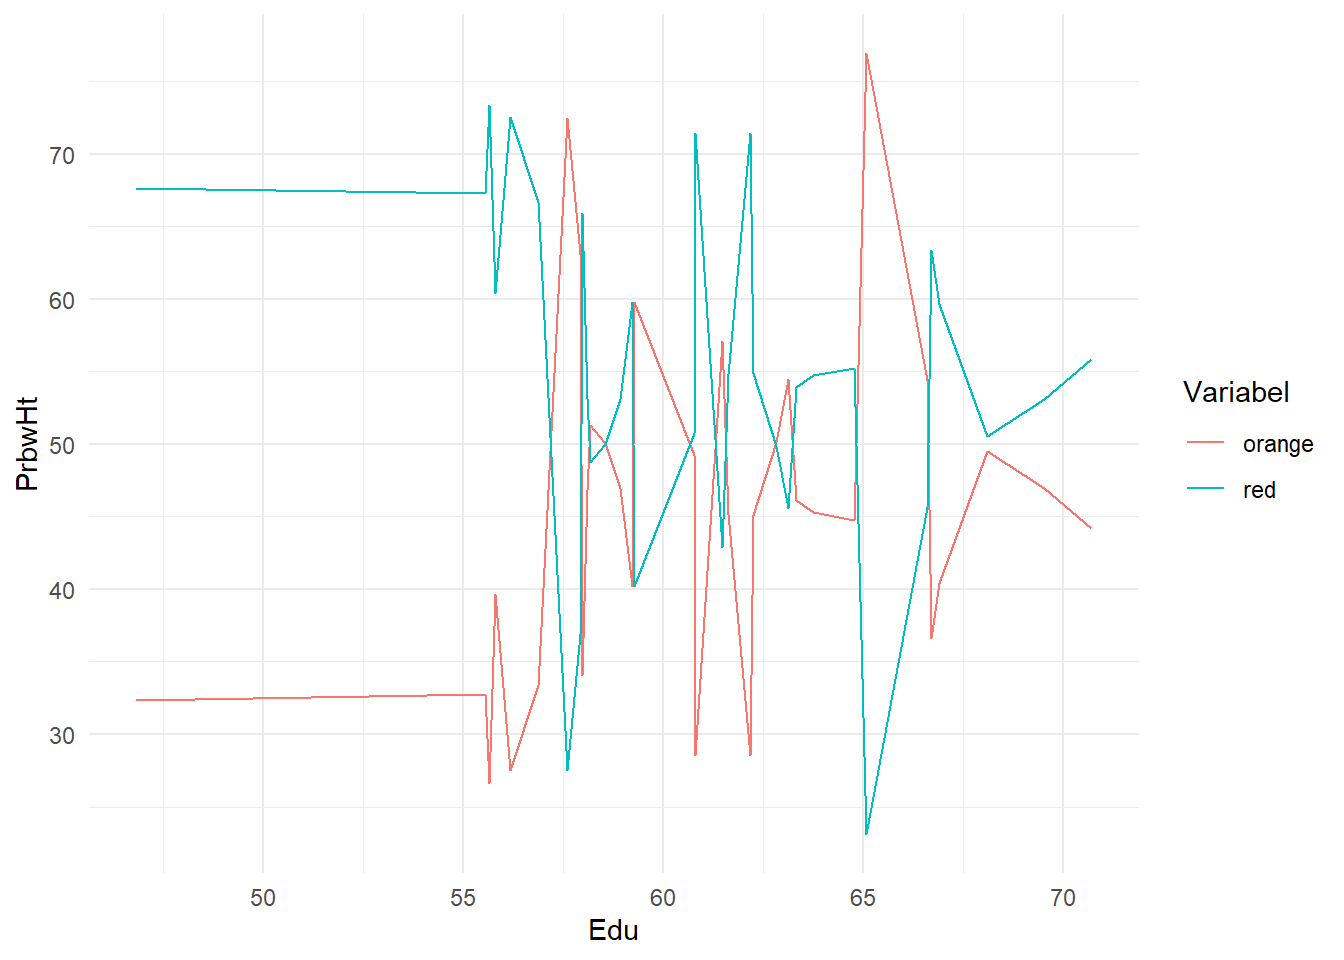
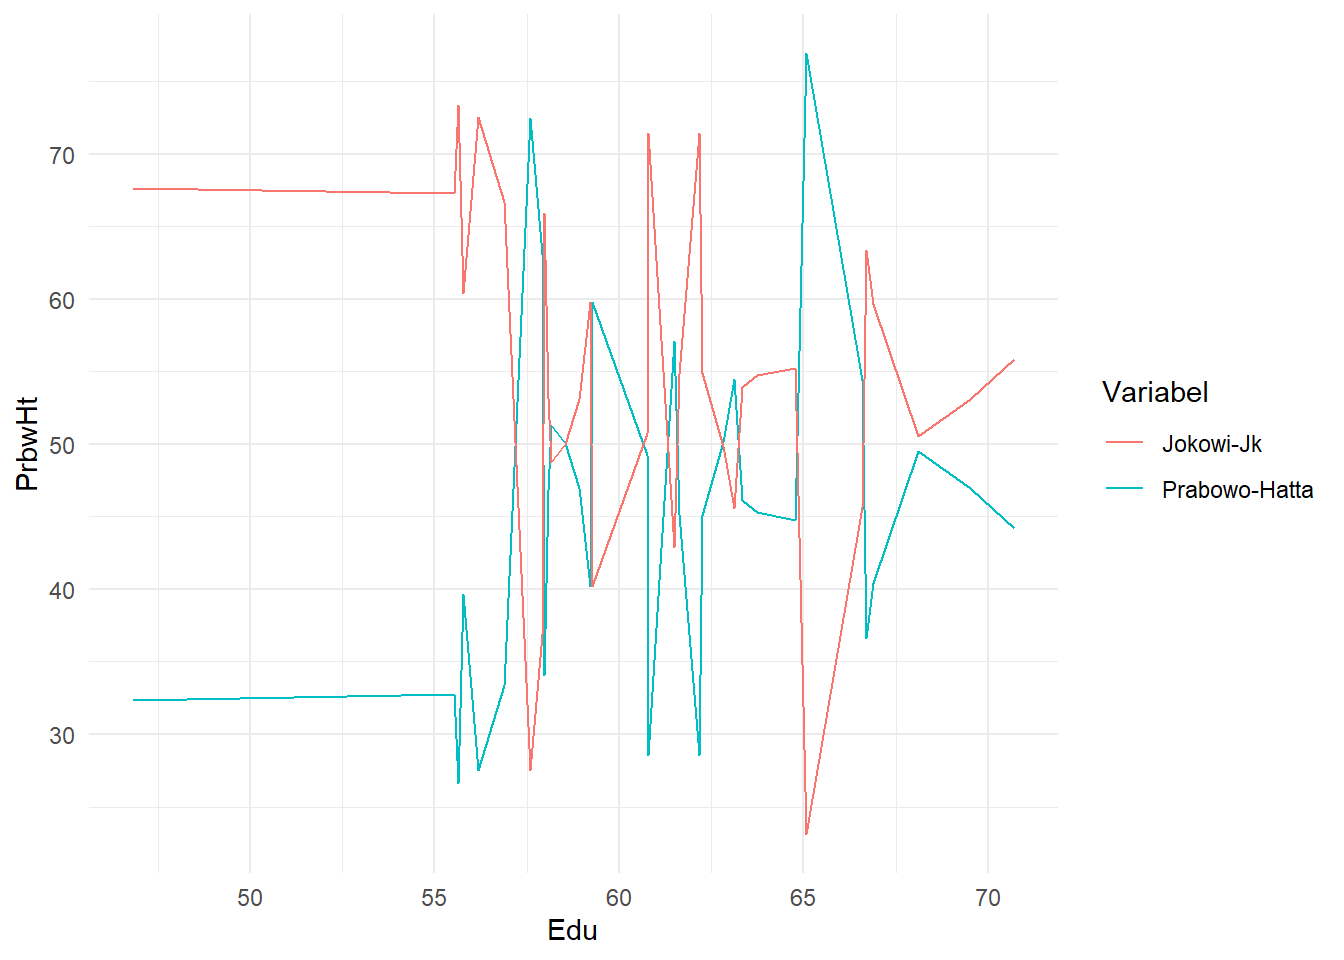
Add files via upload

diff --git a/index.html b/index.html
@@ -202,7 +202,8 @@ window.Quarto = {
 <section id="studi-pustaka" class="level2" data-number="2">
 <h2 data-number="2" class="anchored" data-anchor-id="studi-pustaka"><span class="header-section-number">2</span> Studi pustaka</h2>
 <p><strong>1. Pemilihan Presiden dan Demokrasi di Indonesia</strong></p>
-<p>Pemilihan Presiden dan Wakil Presiden merupakan perwujudan demokrasi dalam sistem presidensiil. Pemilihan presiden merupakan bagian integral dari sistem demokrasi di Indonesia. Sejak reformasi pada tahun 1998, Indonesia telah mengadakan beberapa pemilihan presiden yang dianggap bebas dan adil. Pemilihan presiden memberikan kesempatan kepada warga negara untuk memilih pemimpin mereka dan berpartisipasi dalam proses demokrasi (sumono, 2014). Berdasarkan Pasal 22 E Undang-Undang Dasar Negara Republik Indonesia 1945 diperkenalkan Pemilu Legislatif, Pemilu Presiden dan Wakil Presiden, sedang Pasal 18 (4) Undang-Undang Dasar Negara Republik Indonesia 1945 mengatur Pemilu Kepala Daerah dan Wakil Kepala Daerah secara bertingkat dari Gubernur hingga Bupati/Walikota.</p>
+<p>Pemilihan Presiden dan Wakil Presiden merupakan perwujudan demokrasi dalam sistem presidensiil. Pemilihan presiden merupakan bagian integral dari sistem demokrasi di Indonesia. Sejak reformasi pada tahun 1998, Indonesia telah mengadakan beberapa pemilihan presiden yang dianggap bebas dan adil. Pemilihan presiden memberikan kesempatan kepada warga negara untuk memilih pemimpin mereka dan berpartisipasi dalam proses demokrasi (sumono, 2014).</p>
+<p>Berdasarkan Pasal 22 E Undang-Undang Dasar Negara Republik Indonesia 1945 diperkenalkan Pemilu Legislatif, Pemilu Presiden dan Wakil Presiden, sedang Pasal 18 (4) Undang-Undang Dasar Negara Republik Indonesia 1945 mengatur Pemilu Kepala Daerah dan Wakil Kepala Daerah secara bertingkat dari Gubernur hingga Bupati/Walikota.</p>
 <p><strong>2. Indeks Pendidikan</strong></p>
 <p>Indeks pendidikan merupakan salah satu komponen pengukur pendidikan. Indeks pendidikan adalah cerminan dari hasil pembangunan dibidang pendidikan yang mempunyai kedudukan strategis, mengingat kualitas Sumber Daya Manusia (SDM) yang tercermin didalamnya sangat menentukan tingkat produktivitas suatu negara. Indeks pendidikan digunakan untuk mengukur dimensi pengetahuan sebagai salah satu variabel pembangunan manusia. Indeks pendidikan ini merupakan penggabungan dua indikator pendidikan yaitu angka harapan lama sekolah dan rata-rata lama sekolah (BPS, 2021).</p>
 <p><strong>3. Pengaruh Pendidikan terhadap Partisipasi Politik</strong></p>
@@ -577,7 +578,7 @@ window.Quarto = {
 </tr>
 </tbody>
 </table>
-<p>Sumber data: Komisi Pemilihan Umum Republik Indonesia dan Badan Pusat Statistik Indonesia</p>
+<p>Sumber data: Komisi Pemilihan Umum Republik Indonesia dan Badan Pusat Statistik Indonesia.</p>
 <p><img src="kpu.png" class="img-fluid quarto-figure quarto-figure-left" style="width:40.0%" alt="Logo KPU."> <img src="bps.png" class="img-fluid quarto-figure quarto-figure-right" style="width:40.0%" alt="Logo BPS."></p>
 </section>
 <section id="import-data" class="level3" data-number="3.2">
@@ -715,8 +716,8 @@ Figure&nbsp;2: Hubungan antara Indeks Pendidikan dan Persentase Suara Pasangan 0
 <span id="cb10-2"><a href="#cb10-2" aria-hidden="true" tabindex="-1"></a>dat<span class="ot">&lt;-</span><span class="fu">read_excel</span>(<span class="st">"C:/Users/yusri/Documents/UAS Metopel/data uas.xlsx"</span>)</span>
 <span id="cb10-3"><a href="#cb10-3" aria-hidden="true" tabindex="-1"></a><span class="fu">library</span>(<span class="st">'ggplot2'</span>)</span>
 <span id="cb10-4"><a href="#cb10-4" aria-hidden="true" tabindex="-1"></a><span class="fu">ggplot</span>(<span class="at">data=</span>dat, <span class="fu">aes</span>(Edu)) <span class="sc">+</span></span>
-<span id="cb10-5"><a href="#cb10-5" aria-hidden="true" tabindex="-1"></a>  <span class="fu">geom_line</span>(<span class="fu">aes</span>(<span class="at">y =</span> PrbwHt, <span class="at">colour =</span> <span class="st">"orange"</span>)) <span class="sc">+</span></span>
-<span id="cb10-6"><a href="#cb10-6" aria-hidden="true" tabindex="-1"></a>  <span class="fu">geom_line</span>(<span class="fu">aes</span>(<span class="at">y =</span> JkwJk, <span class="at">colour =</span> <span class="st">"red"</span>)) <span class="sc">+</span></span>
+<span id="cb10-5"><a href="#cb10-5" aria-hidden="true" tabindex="-1"></a>  <span class="fu">geom_line</span>(<span class="fu">aes</span>(<span class="at">y =</span> PrbwHt, <span class="at">colour =</span> <span class="st">"Prabowo-Hatta"</span>)) <span class="sc">+</span></span>
+<span id="cb10-6"><a href="#cb10-6" aria-hidden="true" tabindex="-1"></a>  <span class="fu">geom_line</span>(<span class="fu">aes</span>(<span class="at">y =</span> JkwJk, <span class="at">colour =</span> <span class="st">"Jokowi-Jk"</span>)) <span class="sc">+</span></span>
 <span id="cb10-7"><a href="#cb10-7" aria-hidden="true" tabindex="-1"></a>  <span class="fu">labs</span>(<span class="at">colour =</span> <span class="st">"Variabel"</span>)<span class="sc">+</span></span>
 <span id="cb10-8"><a href="#cb10-8" aria-hidden="true" tabindex="-1"></a><span class="fu">theme_minimal</span>()</span></code><button title="Copy to Clipboard" class="code-copy-button"><i class="bi"></i></button></pre></div>
 <div class="cell-output-display">
@@ -733,7 +734,8 @@ Figure&nbsp;2: Hubungan antara Indeks Pendidikan dan Persentase Suara Pasangan 0
 <span id="cb11-2"><a href="#cb11-2" aria-hidden="true" tabindex="-1"></a>dat<span class="ot">&lt;-</span><span class="fu">read_excel</span>(<span class="st">"C:/Users/yusri/Documents/UAS Metopel/data uas.xlsx"</span>)</span>
 <span id="cb11-3"><a href="#cb11-3" aria-hidden="true" tabindex="-1"></a><span class="fu">library</span>(<span class="st">'lattice'</span>)</span>
 <span id="cb11-4"><a href="#cb11-4" aria-hidden="true" tabindex="-1"></a><span class="co"># Membuat plot untuk Y1 dan Y2 terhadap X</span></span>
-<span id="cb11-5"><a href="#cb11-5" aria-hidden="true" tabindex="-1"></a><span class="fu">xyplot</span>(PrbwHt <span class="sc">+</span> JkwJk <span class="sc">~</span> Edu, <span class="at">data =</span> dat, <span class="at">type =</span> <span class="st">"p"</span>,<span class="at">col=</span><span class="fu">c</span>(<span class="st">"orange"</span>, <span class="st">"red"</span>), <span class="at">auto.key =</span> <span class="fu">list</span>(<span class="at">points =</span> <span class="cn">FALSE</span>, <span class="at">lines =</span> <span class="cn">TRUE</span>, <span class="at">space =</span> <span class="st">"right"</span>))</span></code><button title="Copy to Clipboard" class="code-copy-button"><i class="bi"></i></button></pre></div>
+<span id="cb11-5"><a href="#cb11-5" aria-hidden="true" tabindex="-1"></a><span class="fu">xyplot</span>(PrbwHt <span class="sc">+</span> JkwJk <span class="sc">~</span> Edu, <span class="at">data =</span> dat, <span class="at">type =</span> <span class="st">"p"</span>,<span class="at">col=</span><span class="fu">c</span>(<span class="st">"orange"</span>, <span class="st">"red"</span>), </span>
+<span id="cb11-6"><a href="#cb11-6" aria-hidden="true" tabindex="-1"></a>       <span class="at">auto.key =</span> <span class="fu">list</span>(<span class="at">text =</span> <span class="fu">c</span>(<span class="st">"PrbwHt"</span>, <span class="st">"JkwJk"</span>), <span class="at">points =</span> <span class="cn">FALSE</span>, <span class="at">space =</span> <span class="st">"right"</span>, <span class="at">columns =</span> <span class="dv">1</span>, <span class="at">col =</span> <span class="fu">c</span>(<span class="st">"orange"</span>, <span class="st">"red"</span>)))</span></code><button title="Copy to Clipboard" class="code-copy-button"><i class="bi"></i></button></pre></div>
 <div class="cell-output-display">
 <div>
 <figure class="figure">
